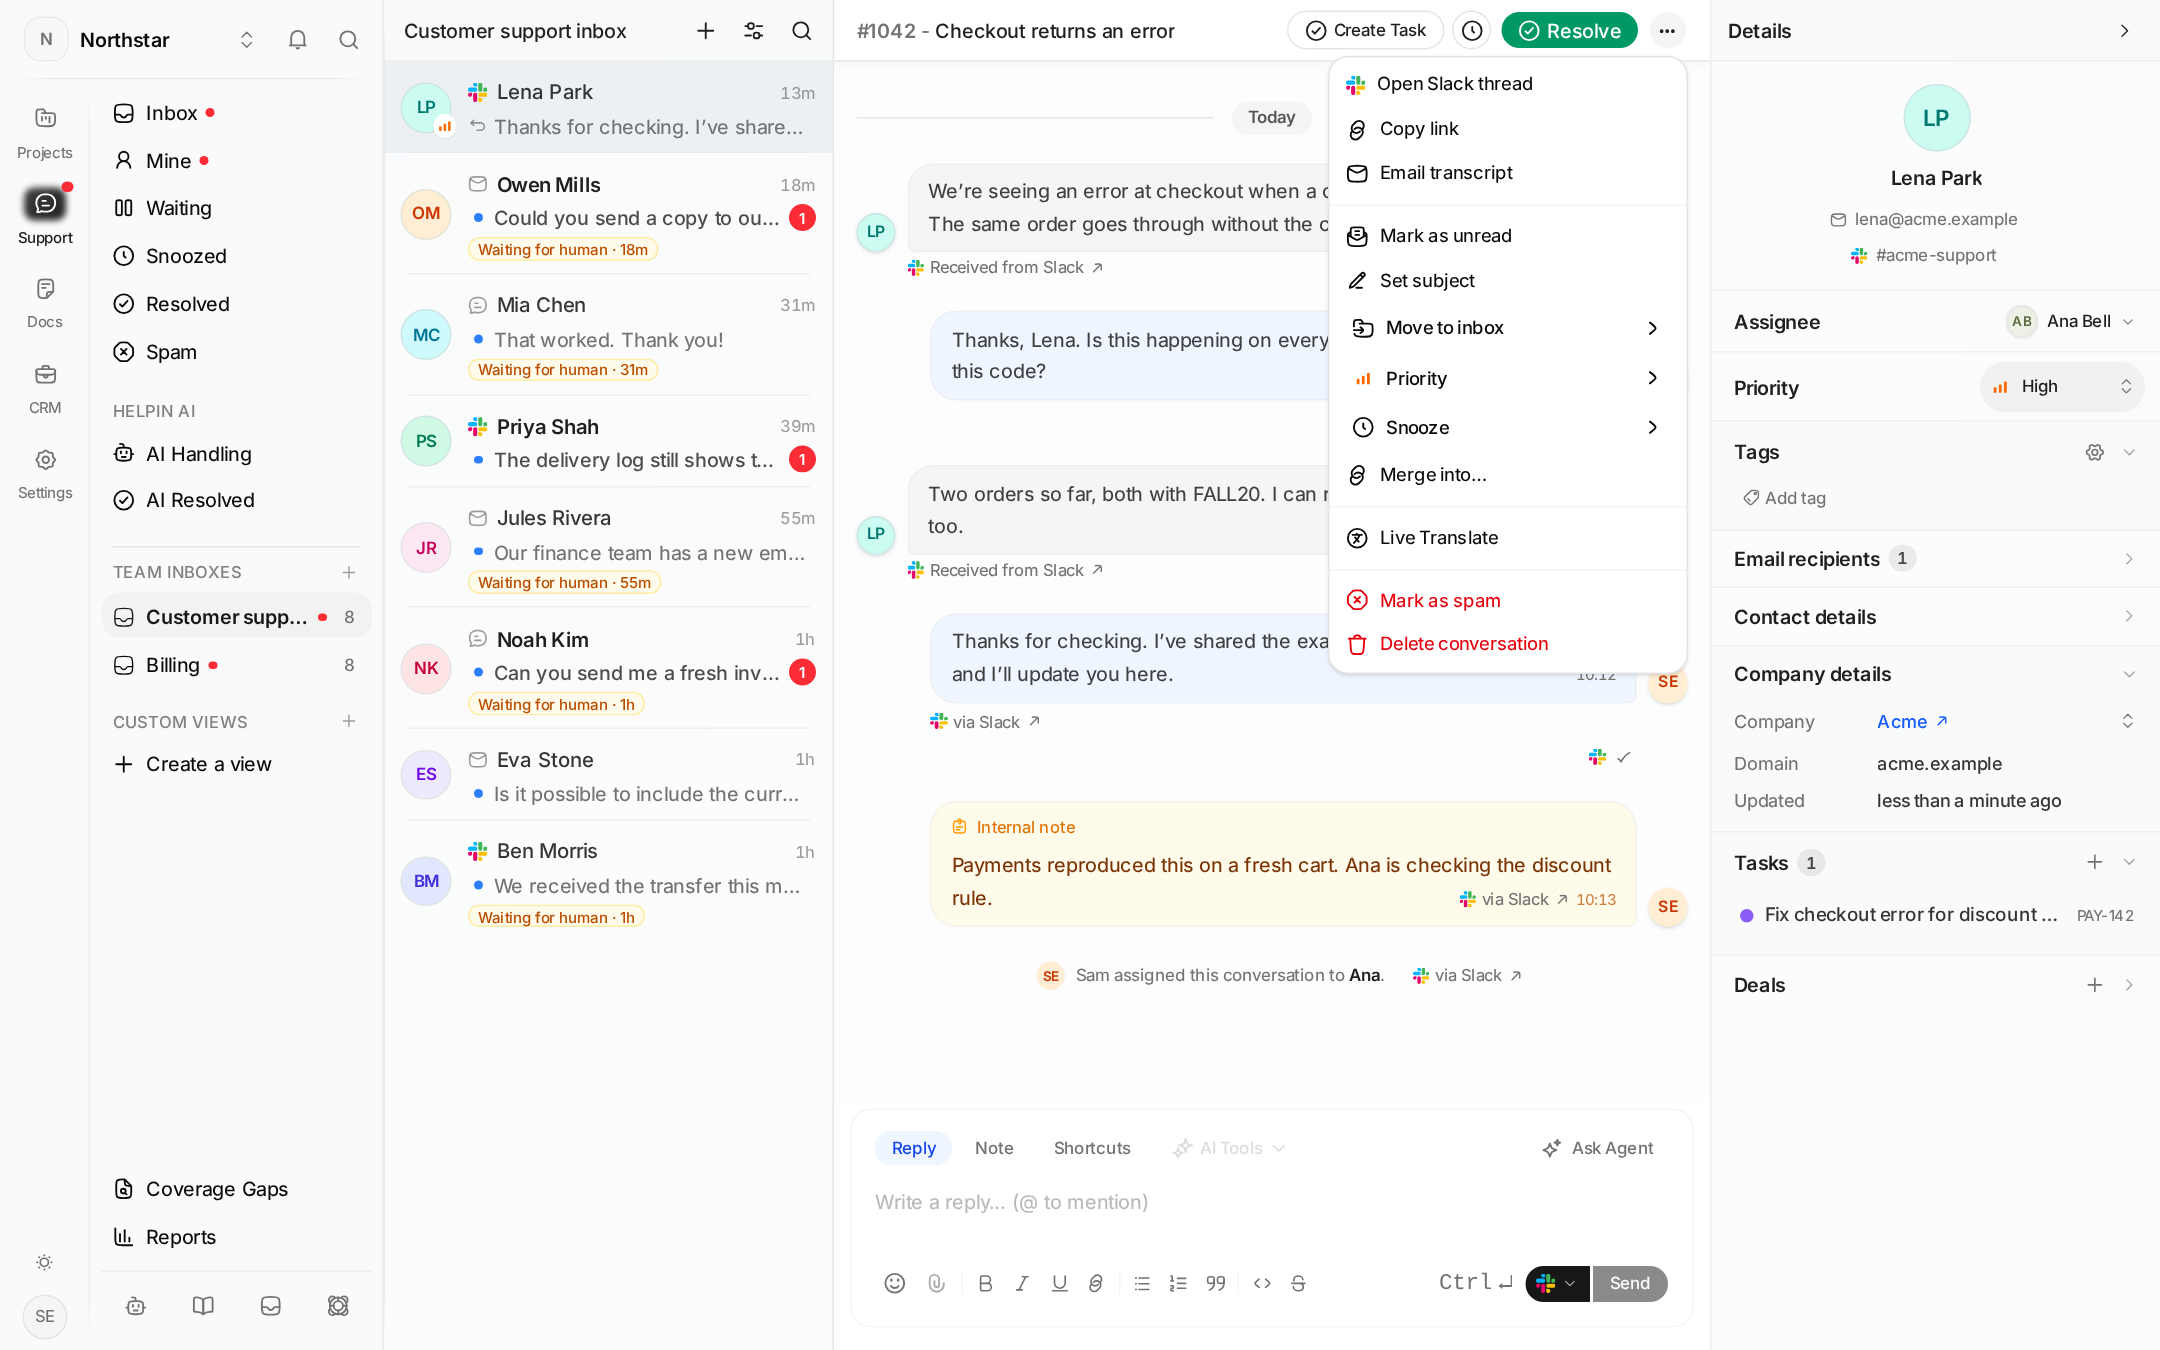
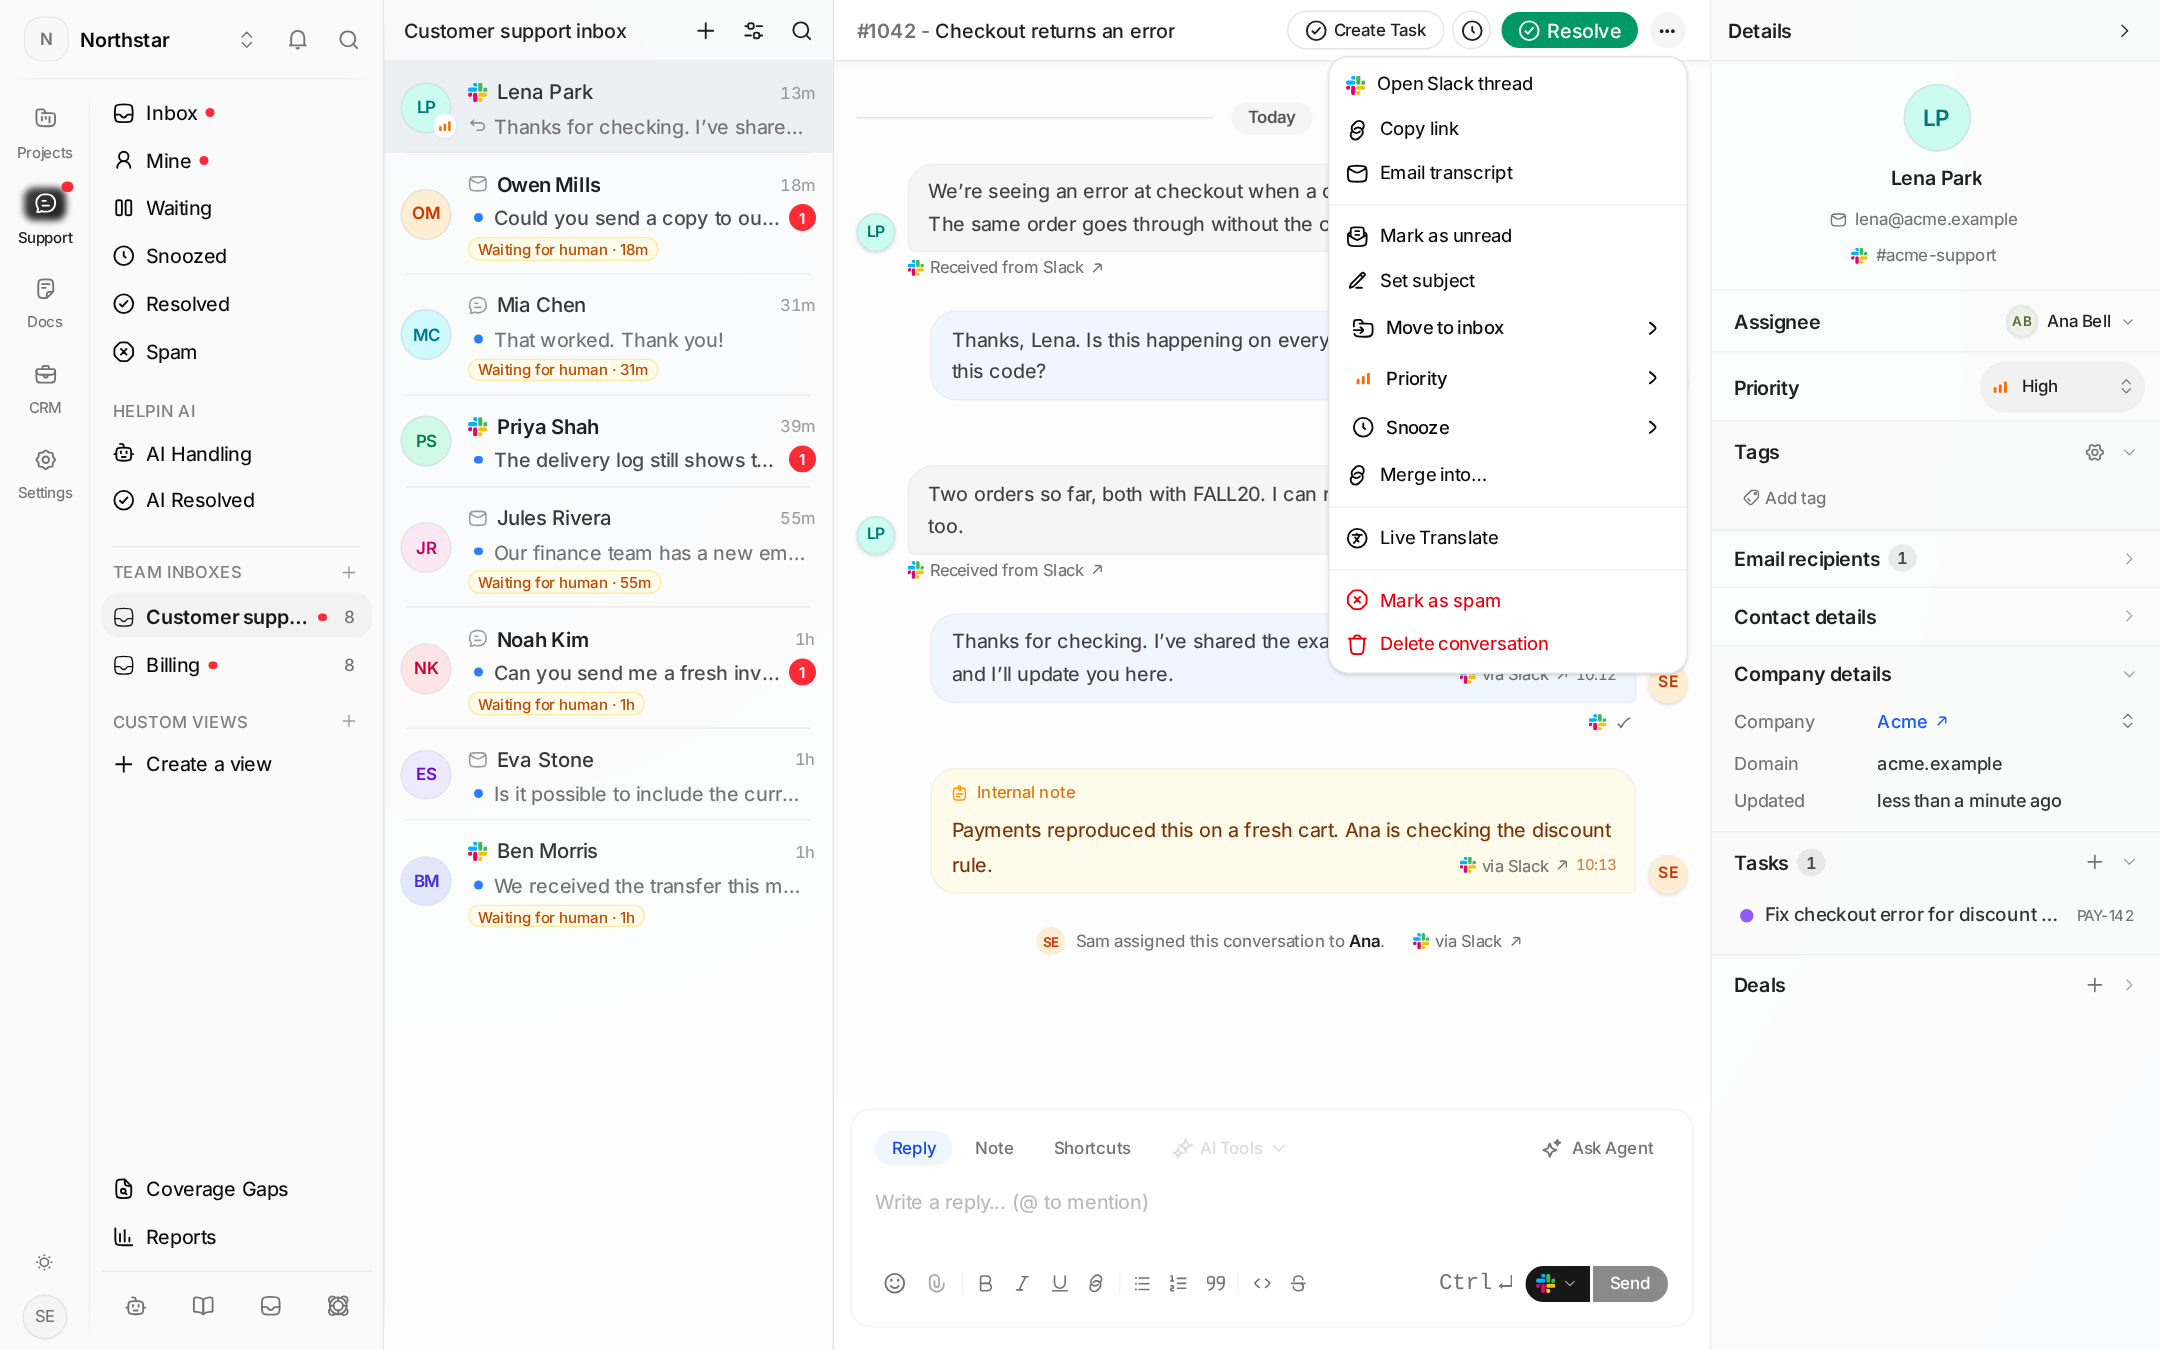
Align Slack reply attribution with timestamps and standardize channel labels

Changed region(s): [[0.4343, 0.5289, 0.8065, 0.6844], [0.4653, 0.6844, 0.6204, 0.7467], [0.6514, 0.6844, 0.6824, 0.7467]]

diff --git a/frontend/src/components/settings/channels/SlackChannels.tsx b/frontend/src/components/settings/channels/SlackChannels.tsx
@@ -20,6 +20,7 @@ import {
 } from '@/components/design-system/quiet'
 import { CRMRecordPicker } from '@/components/automation/CRMRecordPicker'
 import { SlackIcon } from '@/lib/icons'
+import { slackChannelLabel } from '@/lib/supportChannels'
 import { useAccessibleTeams } from '@/hooks/useAccessibleTeams'
 import { useEpics } from '@/hooks/queries/useEpics'
 import { useInboxScopes } from '@/hooks/queries/useSupport'
@@ -210,7 +211,7 @@ export function SlackChannels({
                 className="flex h-auto w-full items-center justify-between gap-3 rounded-none border-b py-3 text-left last:border-b-0"
               >
                 <span className="truncate font-medium">
-                  #{route.channel_name}
+                  {slackChannelLabel(route.channel_name)}
                 </span>
                 <span className="shrink-0 text-xs font-normal text-muted-foreground">
                   {route.purpose === 'inbox' ? inboxNames(route) + ' → Slack' : route.purpose === 'mixed' ? 'Customer requests on demand' : purposes[route.purpose]}
@@ -284,9 +285,10 @@ function RouteDialog({
   const options = (items: { id: string; name: string }[] = []) =>
     items.map((item) => ({ value: item.id, label: item.name }))
   const selected = channels.data?.find(c => c.id === route.channel_id)
+  const isSlackConnectIntake = selected?.is_ext_shared && (route.purpose === 'support' || route.purpose === 'mixed')
   const inboxOptions = [{ value: 'shared', label: 'Main inbox' }, ...options(scopes?.mailboxes)].map(option => {
     const other = rules.find(rule => rule.channel_id !== initial.channel_id && rule.purpose === 'inbox' && rule.mailbox_ids?.includes(option.value))
-    return other ? { ...option, disabled: true, label: option.label + ' · #' + other.channel_name } : option
+    return other ? { ...option, disabled: true, label: option.label + ' · ' + slackChannelLabel(other.channel_name) } : option
   })
   const restrictedInPublic = route.purpose === 'inbox' && selected && !selected.is_private && route.mailbox_ids?.some(id => id !== 'shared')
   const readOnly = initial.purpose === 'inbox' && !!initial.channel_id && !canManageFeed
@@ -298,7 +300,7 @@ function RouteDialog({
         if (!open && !pending) onClose()
       }}
     >
-      <DialogContent>
+      <DialogContent className={isSlackConnectIntake ? 'grid-cols-1 sm:max-w-2xl' : undefined}>
         <DialogHeader>
           <DialogTitle>
             {initial.channel_id ? 'Edit channel rule' : 'Add channel rule'}
@@ -319,7 +321,7 @@ function RouteDialog({
           <QuietFilterDropdown label="Slack channel" value={route.channel_id} emptyLabel="Choose channel"
             disabled={!!initial.channel_id}
             options={(channels.data ?? []).filter(c => !(c.is_ext_shared || c.is_pending_ext_shared) || route.purpose === 'support' || route.purpose === 'mixed')
-              .map(c => ({value:c.id, label:'#' + c.name + (c.is_ext_shared ? ' · Slack Connect' : c.is_private ? ' · Private' : ' · Public')}))}
+              .map(c => ({value:c.id, label:slackChannelLabel(c.name) + (c.is_ext_shared ? ' · Slack Connect' : c.is_private ? ' · Private' : ' · Public')}))}
             onChange={channel_id => setRoute({ ...route, channel_id })} />
         } />
         {!initial.channel_id && <details className="text-xs text-muted-foreground">
@@ -330,7 +332,7 @@ function RouteDialog({
         {route.purpose === 'inbox' && selected && !selected.is_private &&
           <p className="text-xs text-muted-foreground">{restrictedInPublic
             ? 'Team inboxes require a private Slack channel whose members have access to those inboxes.'
-            : `Everyone with access to #${selected.name} can read shared conversations, files and internal notes.`}</p>}
+            : `Everyone with access to ${slackChannelLabel(selected.name)} can read shared conversations, files and internal notes.`}</p>}
         {(route.purpose === 'support' || route.purpose === 'mixed') && <QuietPropertyRow label="Create a conversation" value={
           <QuietSelect label="Create a conversation" value={route.purpose}
             options={[{value:'support', label:'Every new customer thread'}, {value:'mixed', label:'Only on request'}]}

diff --git a/frontend/src/components/support/MessageBubble.tsx b/frontend/src/components/support/MessageBubble.tsx
@@ -525,7 +525,7 @@ export const MessageBubble = memo(function MessageBubble({
   const imageAttachments = message.attachments?.filter(a => a.file_type.startsWith('image/')) ?? [];
   const fileAttachments = message.attachments?.filter(a => !a.file_type.startsWith('image/')) ?? [];
   const hasDisplayContent = visibleContent.trim().length > 0;
-  const showBubble = !!visibleContent || fileAttachments.length > 0 || imageAttachments.length > 0 || linkPreviews.length > 0;
+  const showBubble = !!visibleContent || fileAttachments.length > 0 || imageAttachments.length > 0 || linkPreviews.length > 0 || !!slackAttribution;
   const hasEmailBody = translatedContent === undefined && message.via_channel === 'email' && !!message.html_body;
   const renderEmailBodyAsForwardedText = hasEmailBody && !!forwardedDisplayContent;
 
@@ -975,7 +975,14 @@ export const MessageBubble = memo(function MessageBubble({
   const showStandaloneEmailBadge = isCustomer && hasEmailBadge;
   const showSlackSource = isCustomer && !message.is_internal && message.via_channel === 'slack';
   const showTelegramSource = isCustomer && !message.is_internal && message.via_channel === 'telegram';
-  const hasStatusBelow = !!delivery || aiConfidence !== null || !!aiMeta?.ai_sources?.length || showStandaloneEmailBadge || showSlackSource || !!slackAttribution || showTelegramSource;
+  const hasStatusBelow = !!delivery || aiConfidence !== null || !!aiMeta?.ai_sources?.length || showStandaloneEmailBadge || showSlackSource || showTelegramSource;
+  const timePosition = translationFooter ? 'ml-auto shrink-0' : 'float-right ml-2 mt-1';
+  const replyTimestamp = slackAttribution ? (
+    <span className={`${timePosition} inline-flex items-center gap-1 whitespace-nowrap leading-4 text-muted-foreground`}>
+      {slackAttribution}
+      {renderBubbleTime()}
+    </span>
+  ) : renderBubbleTime(`${timePosition} text-muted-foreground`);
   const messageActionsMenu = (
     <MessageActionsMenu
       alignSide={isCustomer ? 'right' : 'left'}
@@ -1058,8 +1065,8 @@ export const MessageBubble = memo(function MessageBubble({
                       {renderImageAttachments(hasDisplayContent || fileAttachments.length > 0 || linkPreviews.length > 0 ? 'mt-2' : '')}
                       {translationFooter ? <div data-slot="support-message-footer" className="mt-1 flex items-end justify-between gap-3">
                         {translationFooter}
-                        {renderBubbleTime('ml-auto shrink-0 text-muted-foreground')}
-                      </div> : renderBubbleTime('float-right ml-2 mt-1 text-muted-foreground')}
+                        {replyTimestamp}
+                      </div> : replyTimestamp}
                     </div>
                   </TooltipTrigger>
                   <TooltipContent side="top">
@@ -1081,7 +1088,6 @@ export const MessageBubble = memo(function MessageBubble({
           {message.pending_send && <PendingSendStatus message={message}/>}
           {!message.pending_send && (hasStatusBelow || cancellableActive || visitorFeedback !== undefined) && (
             <div className="mt-0.5">
-              {slackAttribution}
               {showSlackSource && <SlackMessageSource workspaceId={message.workspace_id} messageId={message.id} />}
               {showTelegramSource && (
                 <span className="mb-0.5 flex items-center gap-1 text-[11px] text-muted-foreground">

diff --git a/frontend/src/components/support/ReplyComposer.tsx b/frontend/src/components/support/ReplyComposer.tsx
@@ -79,9 +79,13 @@ import { ReplyComposerLoading } from './ReplyComposerLoading';
 import { QuietSelect } from '@/components/design-system/quiet-select';
 import { ReplyDeliverySelector } from './ReplyDeliverySelector';
 import { clearReplyDeliveryDraft, isReplyDeliveryMode, replyDeliveryChannels, restoreReplyDelivery, saveReplyDelivery, useComposerDelivery, saveReplyDestination, useReplyDestination, type ReplyDestination } from './replyDelivery';
-import { hasChatTransport, supportChannel, supportChannelLabel } from '@/lib/supportChannels';
+import { hasChatTransport, slackChannelLabel, supportChannel, supportChannelLabel } from '@/lib/supportChannels';
 
 const RESTORE_SUPPORT_DRAFT_EVENT = 'support:restore-draft';
+
+function replyThreadLabel(thread: { provider: string; name: string }) {
+  return thread.provider === 'slack' ? slackChannelLabel(thread.name) : thread.name.trim();
+}
 
 interface ReplyComposerProps {
   workspaceId: string;
@@ -1906,7 +1910,7 @@ function MessageComposer({ workspaceId, conversationId, emailDeliveryEnabled, on
   const hasContent = content.trim().length > 0;
   const showThreadPicker = deliveryMode !== 'email_only' && (threads.length > 1 || originNeeded);
   const showProviderNotice = deliveryMode !== 'email_only' && !!providerChannel;
-  const recipient = origin?.name.trim();
+  const recipient = origin && replyThreadLabel(origin);
   const replyNotice = providerChannel ? `Reply on ${providerChannel}` : 'Reply';
   const deliveryNoticeError = originNeeded && deliveryMode !== 'email_only' ? undefined : deliveryUnavailableReason;
   const sendLabel = editingNote ? (updateNoteMutation.isPending ? 'Saving…' : 'Save changes')
@@ -2010,7 +2014,7 @@ function MessageComposer({ workspaceId, conversationId, emailDeliveryEnabled, on
                       const thread = destinations.find(d => d.id === id);
                       if (thread) saveReplyDestination(workspaceId, conversationId, { reply_transport: thread.provider, provider_origin_id: id });
                     }}
-                    options={threads.map(d => ({ value: d.id, label: `${!selectedProvider ? supportChannelLabel(d.provider) + ' · ' : ''}${d.name || 'Direct message'} · Conversation ${d.display_id}` }))}
+                    options={threads.map(d => ({ value: d.id, label: `${!selectedProvider ? supportChannelLabel(d.provider) + ' · ' : ''}${replyThreadLabel(d) || 'Direct message'} · Conversation ${d.display_id}` }))}
                   />
                 </div>
               ) : showProviderNotice && (

diff --git a/frontend/src/components/support/ConversationDetailSidebar.tsx b/frontend/src/components/support/ConversationDetailSidebar.tsx
@@ -3,6 +3,7 @@ import { ConversationPriorityPicker } from './ConversationPriorityPicker';
 import { SupportSLABadge } from './SupportSLABadge';
 import { useUpdateConversationPriority } from '@/hooks/queries/useSupportOperations';
 import { describeSLAItem } from '@/lib/supportSLA';
+import { slackChannelLabel } from '@/lib/supportChannels';
 import { SupportCSATStars } from './SupportCSATEvent';
 import { supportCSATRatingLabel } from './supportCSAT';
 import { formatDistance } from 'date-fns';
@@ -593,7 +594,7 @@ export function ConversationDetailSidebar({
                 </Tooltip>
               </div>
             )}
-            {conversation.channel === 'slack' && conversation.provider_channel_name ? <div className={customerEmailDisplayRowClassName}><SlackIcon className="col-start-1 h-3 w-3 justify-self-center" /><span className="col-start-2 truncate">#{conversation.provider_channel_name}</span></div> : conversation.channel_handle && (
+            {conversation.channel === 'slack' && conversation.provider_channel_name ? <div className={customerEmailDisplayRowClassName}><SlackIcon className="col-start-1 h-3 w-3 justify-self-center" /><span className="col-start-2 truncate">{slackChannelLabel(conversation.provider_channel_name)}</span></div> : conversation.channel_handle && (
               <div className={customerEmailDisplayRowClassName}>
                 <TelegramIcon className="col-start-1 h-3 w-3 justify-self-center" />
                 <span className="col-start-2 min-w-0 truncate">Telegram · via @{conversation.channel_handle}</span>

diff --git a/frontend/src/components/pm/CommentThread.tsx b/frontend/src/components/pm/CommentThread.tsx
@@ -1,4 +1,5 @@
 import { SlackSourceLabel } from '@/components/support/SlackMessageSource';
+import { slackChannelLabel } from '@/lib/supportChannels';
 import { useCallback, useEffect, useMemo, useRef, useState, type DragEvent } from 'react';
 import { ArrowReloadHorizontalIcon, Message01Icon, PencilEdit01Icon, ArrowTurnBackwardIcon, SmilePlusIcon, Delete01Icon, Cancel01Icon, PlayCircleIcon, CheckmarkCircle02Icon, MoreHorizontalIcon, AttachmentIcon, PlusSignCircleIcon, MinusSignIcon, BotIcon } from '@/lib/icons';
 import { Popover, PopoverContent, PopoverTrigger } from '@/components/ui/popover';
@@ -1105,7 +1106,7 @@ export function CommentThread({
                 </div>
                 {(entry.comment.slack_discussion_channel || entry.comment.slack_permalink) && (
                   <div className="mt-1.5">
-                    <SlackSourceLabel href={entry.comment.slack_permalink} label={entry.comment.slack_discussion_channel ? `Replies sync to #${entry.comment.slack_discussion_channel}` : 'via Slack'} />
+                    <SlackSourceLabel href={entry.comment.slack_permalink} label={entry.comment.slack_discussion_channel ? `Replies sync to ${slackChannelLabel(entry.comment.slack_discussion_channel)}` : 'via Slack'} />
                   </div>
                 )}
               </>

diff --git a/frontend/src/components/settings/channels/InboxSlackChannelRow.tsx b/frontend/src/components/settings/channels/InboxSlackChannelRow.tsx
@@ -2,6 +2,7 @@ import { useQuery } from '@tanstack/react-query'
 import { QuietPropertyRow } from '@/components/design-system/quiet'
 import { useWorkspaceAccess } from '@/hooks/queries/useSession'
 import { slackService } from '@/lib/services/slackService'
+import { slackChannelLabel } from '@/lib/supportChannels'
 import { useWorkspaceStore } from '@/stores/workspaceStore'
 
 export function InboxSlackChannelRow({ workspaceId, mailboxId, compact = false }: {
@@ -22,7 +23,7 @@ export function InboxSlackChannelRow({ workspaceId, mailboxId, compact = false }
   const link = (
     <a className="text-xs text-muted-foreground hover:text-foreground hover:underline"
       href={`/w/${encodeURIComponent(slug)}/settings/external-tools?tab=apps&slack_inbox=${encodeURIComponent(mailboxId)}`}>
-      {compact ? (channel ? `Slack · #${channel.channel_name}` : 'Connect Slack') : (channel ? `#${channel.channel_name} · Manage` : 'Connect channel')}
+      {compact ? (channel ? `Slack · ${slackChannelLabel(channel.channel_name)}` : 'Connect Slack') : (channel ? `${slackChannelLabel(channel.channel_name)} · Manage` : 'Connect channel')}
     </a>
   )
   return compact ? link : <QuietPropertyRow label="Slack channel" value={link} />

diff --git a/frontend/src/lib/supportChannels.ts b/frontend/src/lib/supportChannels.ts
@@ -45,6 +45,11 @@ export function supportChannelLabel(key: string): string {
   return supportChannel(key)?.label ?? key.charAt(0).toUpperCase() + key.slice(1)
 }
 
+export function slackChannelLabel(name: string): string {
+  const channel = name.trim().replace(/^#+/, '')
+  return channel ? `#${channel}` : ''
+}
+
 /** A conversation source with a live chat session (the widget). */
 export function hasChatTransport(source: string | null | undefined): boolean {
   return supportChannel(source)?.transport === 'chat'
